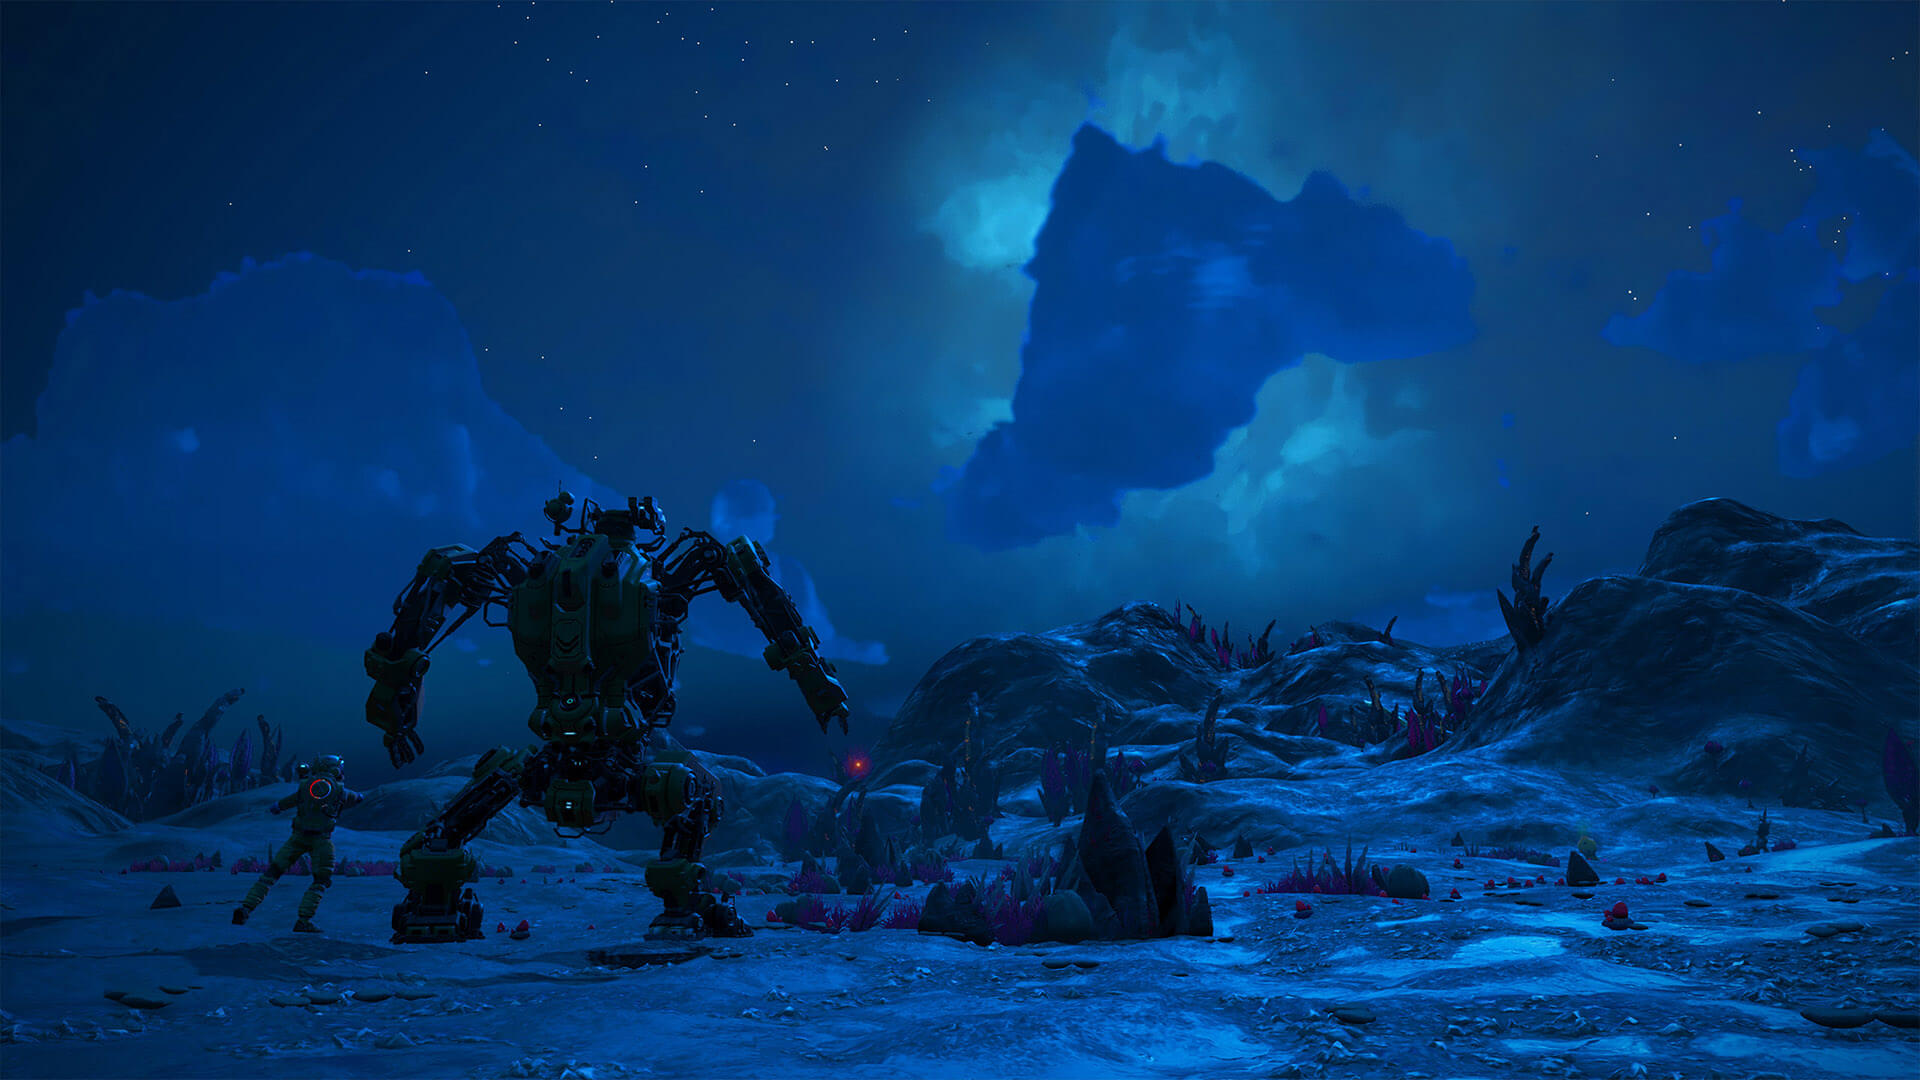
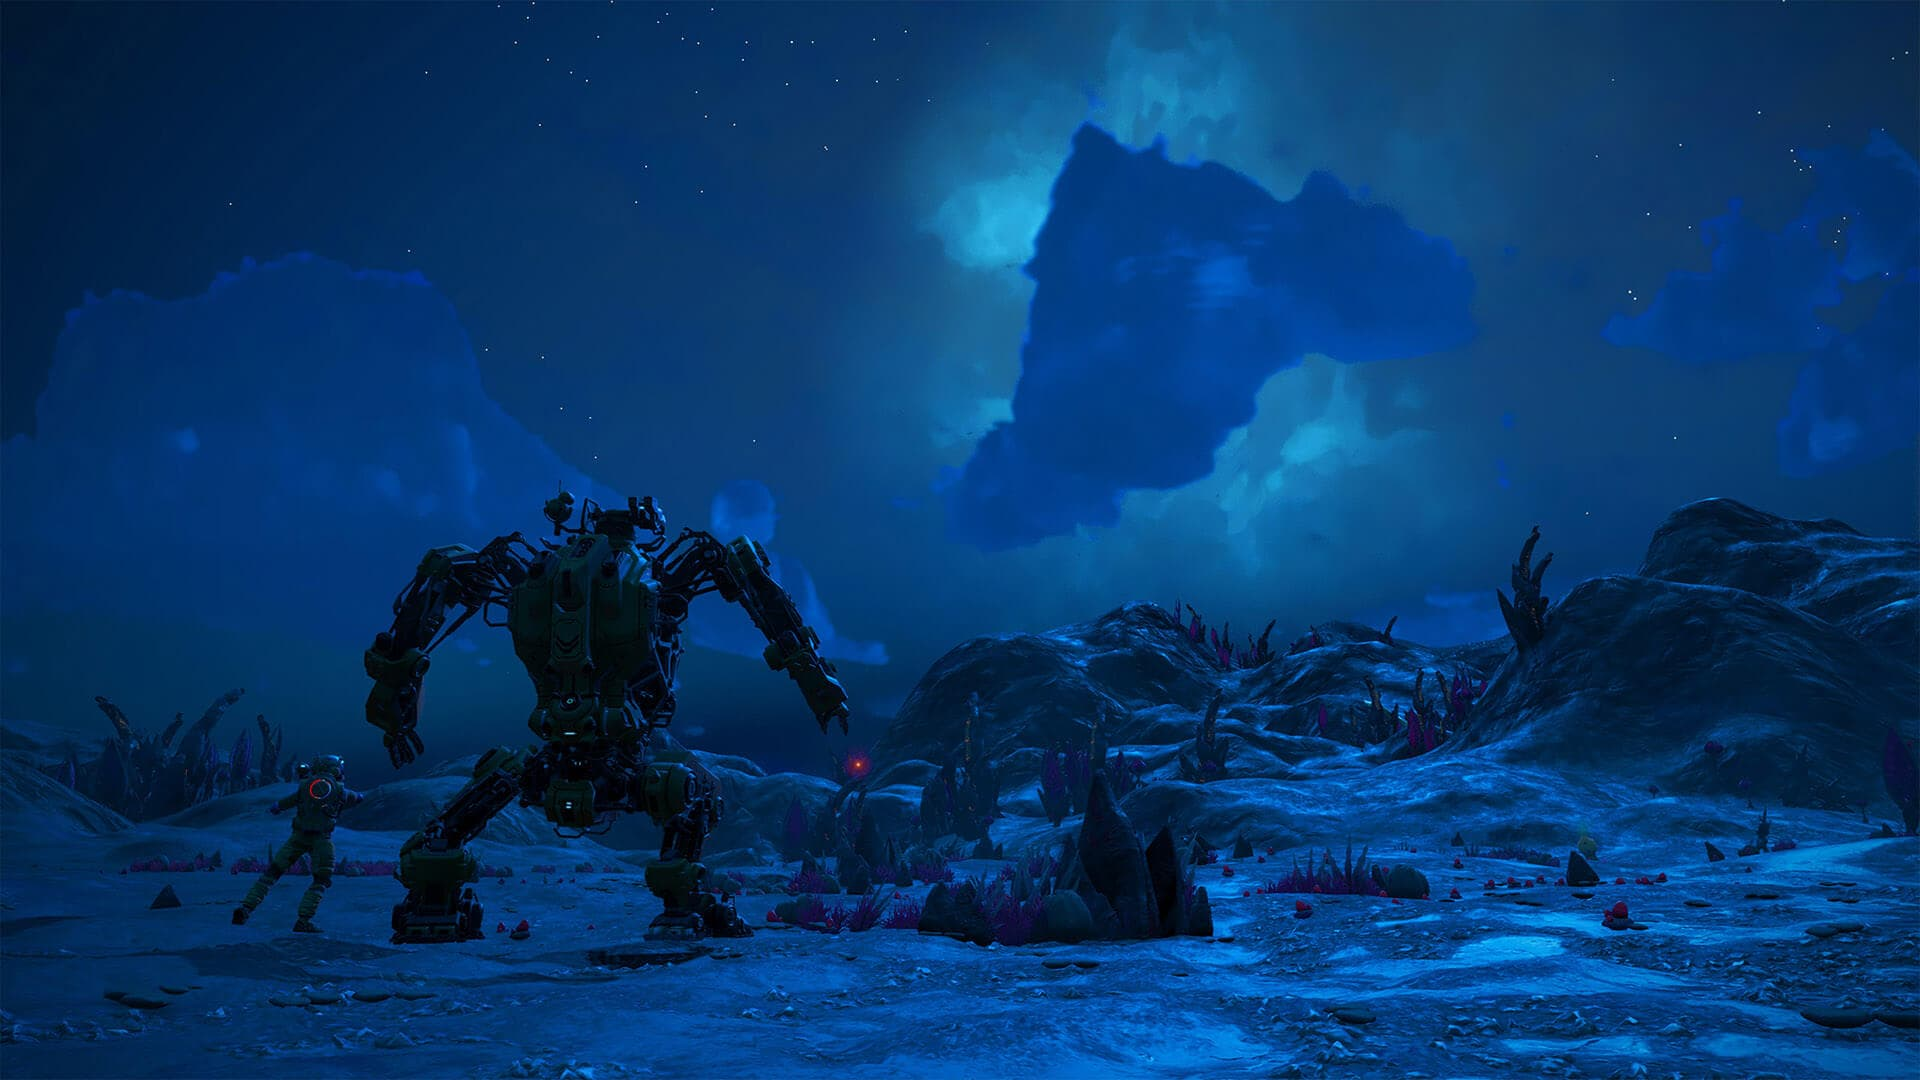
Improvments

Changed region(s): [[0.3125, 0.4889, 0.375, 0.5194], [0.7188, 0.8556, 0.75, 0.8861], [0.2812, 0.4583, 0.3125, 0.4889]]

diff --git a/src/assets/css/main.css b/src/assets/css/main.css
@@ -4,6 +4,7 @@
         url('/fonts/FuturaProBook.woff') format('woff');
     font-weight: normal;
     font-style: normal;
+    font-display: swap;
 }
 
 @tailwind base;
@@ -101,7 +102,7 @@ div:is(
 
 .nms-bg {
     padding: 1rem;
-    background-size: cover;
+    background-size: 100%;
     background-position: center;
     position: relative;
     isolation: isolate;
@@ -120,53 +121,53 @@ div:is(
 }
 
 .bg1 .nms-bg {
-    background-image: url("/images/backgrounds/bg1.jpg");
+    background-image: url("/images/backgrounds/bg1.webp");
 }
 
 .bg2 .nms-bg {
-    background-image: url("/images/backgrounds/bg2.jpg");
+    background-image: url("/images/backgrounds/bg2.webp");
 }
 
 .bg3 .nms-bg {
-    background-image: url("/images/backgrounds/bg3.jpg");
+    background-image: url("/images/backgrounds/bg3.webp");
 }
 
 .bg4 .nms-bg {
-    background-image: url("/images/backgrounds/bg4.jpg");
+    background-image: url("/images/backgrounds/bg4.webp");
 }
 
 .bg5 .nms-bg {
-    background-image: url("/images/backgrounds/bg5.jpg");
+    background-image: url("/images/backgrounds/bg5.webp");
 }
 
 .bg6 .nms-bg {
-    background-image: url("/images/backgrounds/bg6.jpg");
+    background-image: url("/images/backgrounds/bg6.webp");
 }
 
 .bg7 .nms-bg {
-    background-image: url("/images/backgrounds/bg7.jpg");
+    background-image: url("/images/backgrounds/bg7.webp");
 }
 
 .bg8 .nms-bg {
-    background-image: url("/images/backgrounds/bg8.jpg");
+    background-image: url("/images/backgrounds/bg8.webp");
 }
 
 .bg9 .nms-bg {
-    background-image: url("/images/backgrounds/bg9.jpg");
+    background-image: url("/images/backgrounds/bg9.webp");
 }
 
 .bg10 .nms-bg {
-    background-image: url("/images/backgrounds/bg10.jpg");
+    background-image: url("/images/backgrounds/bg10.webp");
 }
 
 .bg11 .nms-bg {
-    background-image: url("/images/backgrounds/bg11.jpg");
+    background-image: url("/images/backgrounds/bg11.webp");
 }
 
 .bg12 .nms-bg {
-    background-image: url("/images/backgrounds/bg12.jpg");
+    background-image: url("/images/backgrounds/bg12.webp");
 }
 
 .bg13 .nms-bg {
-    background-image: url("/images/backgrounds/bg13.jpg");
+    background-image: url("/images/backgrounds/bg13.webp");
 }

diff --git a/src/layouts/Sidebar.jsx b/src/layouts/Sidebar.jsx
@@ -94,7 +94,7 @@ export default function Example(props) {
 										<div className="flex flex-shrink-0 items-center px-4">
 											<img
 												className="h-[31px] w-auto"
-												src="/images/logo-nms.png"
+												src="/images/logo-nms.webp"
 												alt="No Man's Sky Recipes"
 											/>
 										</div>
@@ -141,7 +141,7 @@ export default function Example(props) {
 							<div className="flex flex-shrink-0 items-center mb-2 px-4">
 								<img
 									className="h-[31px] w-auto"
-									src="https://nomansskyrecipes.com/uploads/logo-nms.png"
+									src="/images/logo-nms.webp"
 									alt="No Man's Sky Refiner Recipes"
 								/>
 							</div>
